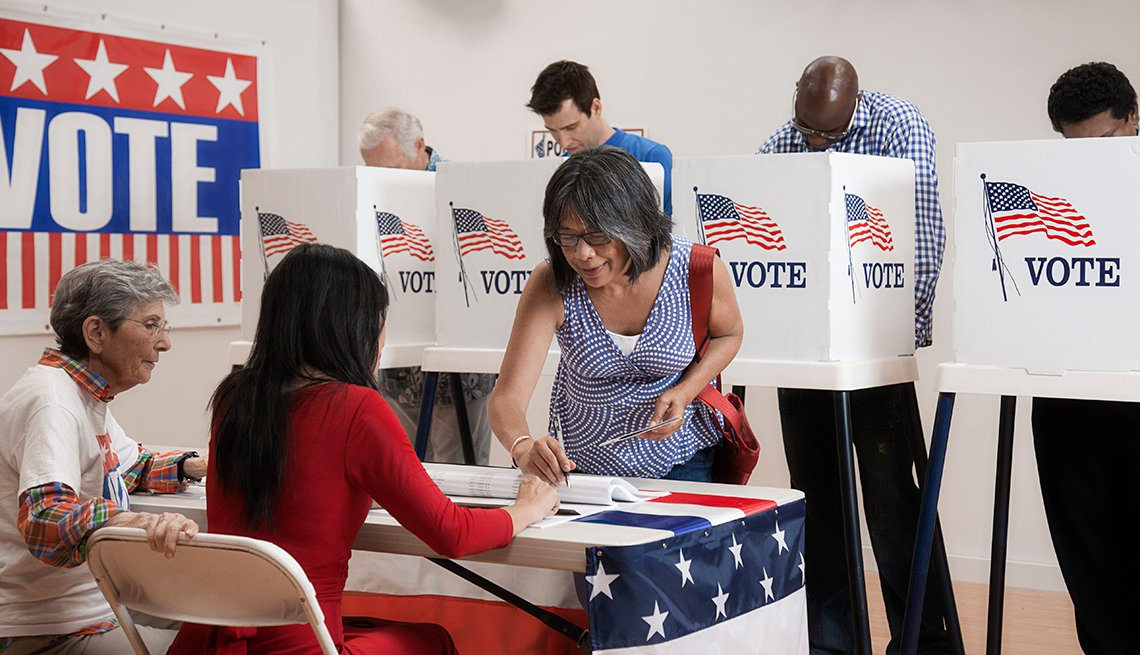
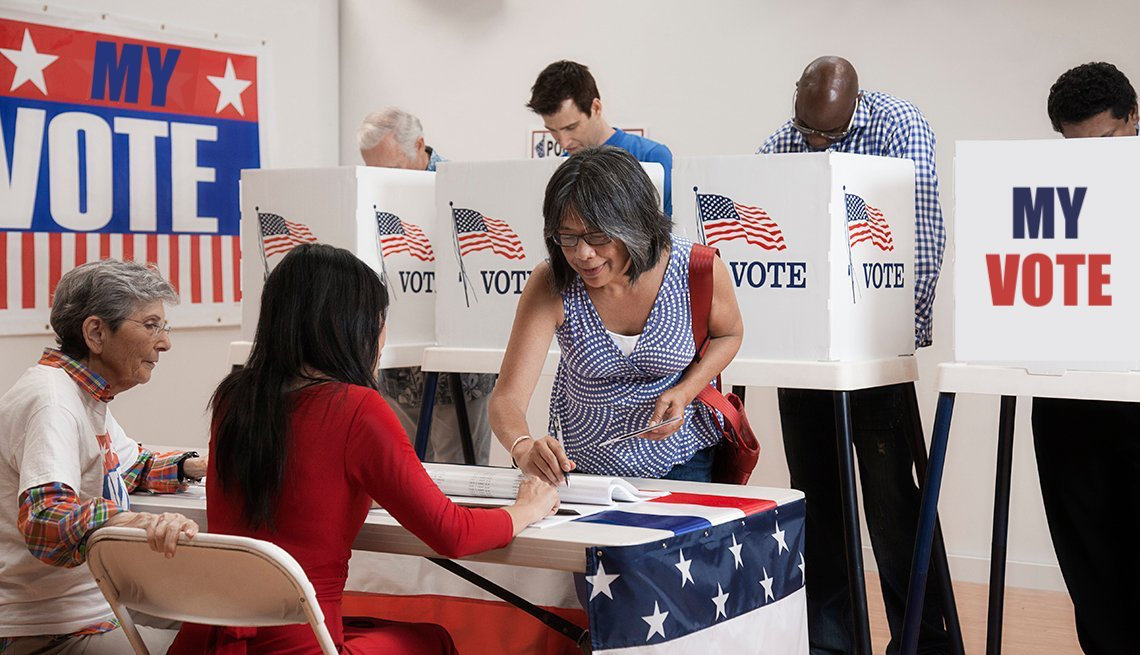
more changes

diff --git a/candidates.html b/candidates.html
@@ -56,9 +56,9 @@
             <li>Signature Issues: Increase America’s leadership on the world stage, strengthen economic protections for the middle and working class, ensure an inclusive democracy and be tough on gun control.</li>
           </ul>
     </h2>
-    <h2> Stance on Policy: <br>
+    <h2> Stance on Gun Safety: <br>
         <ul>
-            <li>Gun Safety Plan <a href="https://joebiden.com/gunsafety/">joebiden.com/gunsafety/</a> </li>
+            <li>Policy Plan <a href="https://joebiden.com/gunsafety/">joebiden.com/gunsafety/</a> </li>
             <ul>
                 <li>Ban manufacture and sale of assault weapons and high-capacity magazines.</li>
                 <li>Buy back the assault weapons and high-capacity magazines already in our communities</li>
@@ -83,9 +83,9 @@
             <li>Many political critics describe him as a fiscal conservative and social democrat</li>
         </ul>
     </h2>
-    <h2> Stance on Policy: <br>
+    <h2> Stance on Gun Safety: <br>
         <ul>
-            <li>Gun Safety Plan <a href="https://www.mikebloomberg.com/policies/gun-safety">www.mikebloomberg.com/policies/gun-safety</a> </li>
+            <li>Policy Plan <a href="https://www.mikebloomberg.com/policies/gun-safety">www.mikebloomberg.com/policies/gun-safety</a> </li>
             <ul>
                 <li>Universal Background Checks</li>
                 <li>Reinstate the federal ban on assault weapons and high-capacity magazines.</li>
@@ -109,9 +109,9 @@
             <li>Signature issues are Medicare-For-All-Who-Want-It, tough environmental policies, and more economic opportunity for the midwest</li>
         </ul>
     </h2>
-    <h2> Stance on Policy: <br>
+    <h2> Stance on Gun Safety: <br>
         <ul>
-            <li>Gun Safety Plan <a href="https://peteforamerica.com/issues/#GunLaws">peteforamerica.com/issues/#GunLaws</a> </li>
+            <li>Policy Plan <a href="https://peteforamerica.com/issues/#GunLaws">peteforamerica.com/issues/#GunLaws</a> </li>
             <ul>
                 <li>Institute universal background checks - (hyperlink to policy page)</li>
                 <li>Ban assault weapons and high-capacity magazines</li>
@@ -135,9 +135,9 @@
             <li>Her signature issues are rebuilding infrastructure, lowering drug prices, and strengthening log-term care for seniors</li>
         </ul>
     </h2>
-    <h2> Stance on Policy: <br>
+    <h2> Stance on Gun Safety: <br>
         <ul>
-            <li>Gun Safety Plan <a href="https://medium.com/@AmyforAmerica/turning-ideas-into-action-senator-klobuchar-on-gun-violence-57fb7bc94d67">medium.com/@AmyforAmerica/turning-ideas-into-action-senator-klobuchar-on-gun-violence-57fb7bc94d67</a> </li>
+            <li>Policy Plan <a href="https://medium.com/@AmyforAmerica/turning-ideas-into-action-senator-klobuchar-on-gun-violence-57fb7bc94d67">medium.com/@AmyforAmerica/turning-ideas-into-action-senator-klobuchar-on-gun-violence-57fb7bc94d67</a> </li>
             <ul>
                 <li>Instituting universal background checks by closing the gun show loophole.</li>
                 <li>Banning bump stocks that can increase a semiautomatic rifle’s rate of fire to 700 rounds per minute.</li>
@@ -163,9 +163,9 @@
             <li>Signature issues are Medicare-For-All, the Green New Deal, and College For All</li>
         </ul>
     </h2>
-    <h2> Stance on Policy: <br>
+    <h2> Stance on Gun Safety: <br>
         <ul>
-            <li>Gun Safety Plan <a href="https://berniesanders.com/issues/gun-safety/">berniesanders.com/issues/gun-safety/</a> </li>
+            <li>Policy Plan <a href="https://berniesanders.com/issues/gun-safety/">berniesanders.com/issues/gun-safety/</a> </li>
             <ul>
                 <li>Expand background checks.</li>
                 <li>Ban the sale and distribution of assault weapons.</li>
@@ -185,9 +185,9 @@
             <li>Tom Steyer is an American hedge fund manager, philanthropist, environmentalist, liberal activist, and fundraiser</li>
         </ul>
     </h2>
-    <h2> Stance on Policy: <br>
+    <h2> Stance on Gun Safety: <br>
         <ul>
-            <li>Gun Safety Plan <a href="https://www.tomsteyer.com/we-can-end-gun-violence/">tomsteyer.com/we-can-end-gun-violence/</a> </li>
+            <li>Policy Plan <a href="https://www.tomsteyer.com/we-can-end-gun-violence/">tomsteyer.com/we-can-end-gun-violence/</a> </li>
             <ul>
                 <li>National assault weapon registry</li>
                 <li>Requiring a license for all gun ownership</li>
@@ -205,9 +205,9 @@
             <li>His signature issues are immigration, economy, and healthcare</li>
         </ul>
     </h2>
-    <h2> Stance on Policy: <br>
+    <h2> Stance on Gun Safety: <br>
         <ul>
-            <li>Gun Safety Plan </li>
+            <li>Policy Plan </li>
             <ul>
                 <li>End gun-free zones in schools &amp; military bases</li>
                 <li>No guns for people on terrorist watch-list</li>
@@ -225,9 +225,9 @@
             <li>Representing the more left side of the Democratic Party, Warren is a supporter of Medicare-For-All and encourages cracking down on corporate corruption</li>
         </ul>
     </h2>
-    <h2> Stance on Policy: <br>
+    <h2> Stance on Gun Safety: <br>
         <ul>
-            <li>Gun Safety Plan <a href="https://elizabethwarren.com/plans/gun-violence">elizabethwarren.com/plans/gun-violence</a> </li>
+            <li>Policy Plan <a href="https://elizabethwarren.com/plans/gun-violence">elizabethwarren.com/plans/gun-violence</a> </li>
             <ul>
                 <li>Requiring universal background checks.</li>
                 <li>Requirement to report bulk sales to nearly all gun sales</li>
@@ -250,9 +250,9 @@
             <li>His signature issues are that he favors fiscal restraint, free trade, and moderate immigration reform; has endorsed steps to legalize marijuana.</li>
         </ul>
     </h2>
-    <h2> Stance on Policy: <br>
+    <h2> Stance on Gun Safety: <br>
         <ul>
-            <li>Gun Safety Plan <a href="https://weld2020.org/wp-content/uploads/2019/11/weld2020_policypaper_firearms.pdf">weld2020.org/wp-content/uploads/2019/11/weld2020_policypaper_firearms.pdf</a> </li>
+            <li>Policy Plan <a href="https://weld2020.org/wp-content/uploads/2019/11/weld2020_policypaper_firearms.pdf">weld2020.org/wp-content/uploads/2019/11/weld2020_policypaper_firearms.pdf</a> </li>
             <ul>
                 <li>Red Flag laws, if done correctly, make a lot of sense</li>
                 <li>“Universal” background checks are easier said than done, raise some fundamental concerns, and may not be the overarching solution many seem to believe.</li>
@@ -269,9 +269,9 @@
             <li>Yang’s signature issue is a Universal Basic Income, a policy that mandates every single American would receive a monthly sum of $1,000 from the government</li>
         </ul>
     </h2>
-    <h2> Stance on Policy: <br>
+    <h2> Stance on Gun Safety: <br>
         <ul>
-            <li>Gun Safety Plan <a href="https://www.yang2020.com/policies/gun-safety/">yang2020.com/policies/gun-safety/</a> </li>
+            <li>Policy Plan <a href="https://www.yang2020.com/policies/gun-safety/">yang2020.com/policies/gun-safety/</a> </li>
             <ul>
                 <li>Create a common sense licensing policy, requiring investment and safety precautions</li>
                 <li>Prevent dangerous individuals from owning guns</li>

diff --git a/index.html b/index.html
@@ -5,18 +5,15 @@
 </head>
 
 <body>
+  <div id="downAarrow"> </div>
   <div class='navbar'>
    <a href='index.html'>Home</a>
    <a href='candidates.html'>Candidates</a>
    <a href='policies.html'>Policies</a>
   </div>
 
-  <section class="hero" style="background-image: url('https://cdn.aarp.net/content/dam/aarp/politics/government-and-elections/2018/10/1140-people-voting-polling-place.imgcache.rev4665b7fc65570b8c73e0f6142b6c3cdf.web.jpg')">
-          <div class="hero-content">
-              <h1 class="hero-title">
-                  MyVote            </h1>
-              <p class="hero-subtitle">Rent, Store, and We Deliver Rent, Store, and We Deliver Rent, Store, and We Deliver Rent, Store, and We Deliver Rent, Store, and We Deliver          </p>
-          </div>
+  <section class="hero" style="background-image: url('./votingPeople.jpeg')">
+          <div class="hero-content"><h1 class="hero-title">MyVote</h1></div>
  </section>
 
   <script type="text/javascript" src="./index.js"></script>

diff --git a/policies.html b/policies.html
@@ -10,6 +10,16 @@
   <div id=hold>
     <div id="candidatesStance" style="display: none;">
       <p><strong>Where do your candidates line up?</strong></p>
+      <p><a href="candidates.html#Joe-Biden">Joe Biden</a></p>
+      <p><a href="candidates.html#Micheal-Bloomberg">Micheal Bloomberg</a></p>
+      <p><a href="candidates.html#Pete-Buttigieg">Pete Buttigieg</a></p>
+      <p><a href="candidates.html#Amy-Klobuchar">Amy Klobuchar</a></p>
+      <p><a href="candidates.html#Bernie-Sanders">Bernie Sanders</a></p>
+      <p><a href="candidates.html#Tom-Steyer">Tom Steyer</a></p>
+      <p><a href="candidates.html#Donald-Trump">Donald Trump</a></p>
+      <p><a href="candidates.html#Elizabeth-Warren">Elizabeth Warren</a></p>
+      <p><a href="candidates.html#Bill-Weld">Bill Weld</a></p>
+      <p><a href="candidates.html#Andrew-Yang">Andrew Yang</a></p>
       <button id="submitbtn" onclick='toggleStance()'>Close</button>
     </div>
   </div>

diff --git a/index.css b/index.css
@@ -3,7 +3,7 @@ html,body{
    margin: 0px;
    padding: 0px;
    overflow-x: hidden;
-   background-color:white;
+   background-color:#FBFCFC;
 }
 .container {
   height: 200px;
@@ -131,10 +131,10 @@ h2{
   font-size: 1.5em;
   width: auto;
   padding: 10px;
-  border: 5px solid black;
+  border: 3px solid black;
   margin-left: 80px;
   margin-right: 80px;
-  background-color:white;
+  background-color:#F1F1F1;
   word-wrap: break-word;
 }
 h3{
@@ -333,7 +333,7 @@ table.table {
   margin-right: auto;
   text-align: left;
   word-wrap: break-word;
-  background-color:white;
+  background-color:#F1F1F1;
 }
 table.table td, table.table th {
   border: 5px solid black;
@@ -351,6 +351,7 @@ table.table thead th {
   border-bottom: 2px solid #444444;
   font-weight: bold;
   color: black;
+  background-color:#F1F1F1;
   text-align: center;
   border: 5px solid black;
 }

diff --git a/homepage.css b/homepage.css
@@ -104,7 +104,23 @@ html,body{
 
 .hero .hero-content .hero-subtitle {
     font-family: proxima-soft,sans-serif;
-    font-size: 2em;
+    font-size: 10em;
     font-style: italic;
     color: #fff
+}
+#downAarrow {
+    position:absolute;
+    bottom: 10px;
+    float: right;
+    right: 50%;
+    padding: .5em;
+    up: 20%;
+    width: auto;
+    height: auto;
+    font-size: 2.3em;
+    background-image:url("https://upload.wikimedia.org/wikipedia/commons/thumb/0/04/Red_Arrow_Down.svg/1024px-Red_Arrow_Down.svg.png");
+    background-repeat: no-repeat;
+    background-size: 100% auto;
+    background-position: center;
+    border-radius: 5px;
 }
